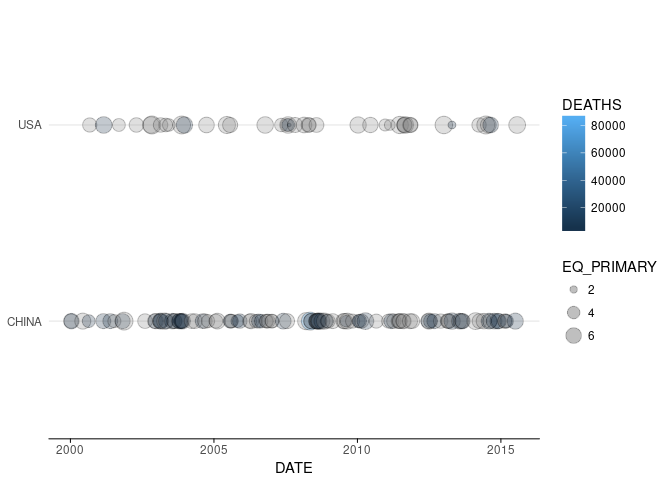
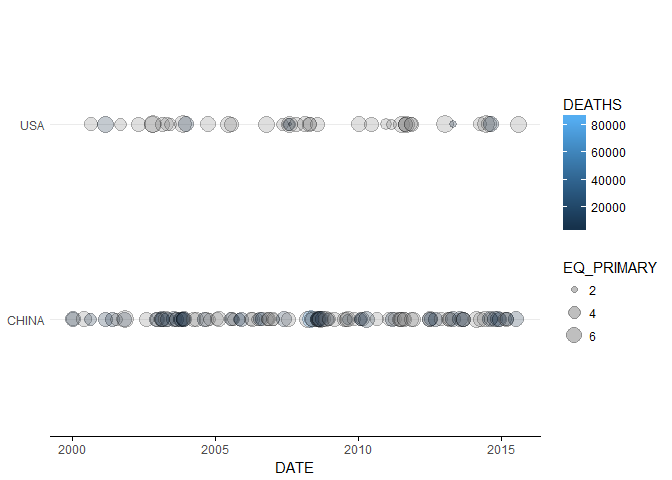
Adding earthquake data.frame as package data

diff --git a/README.md b/README.md
@@ -1,39 +1,22 @@
 
 <!-- README.md is generated from README.Rmd. Please edit that file -->
+earthquakes
+===========
 
-# earthquakes
+The earthquakes package is created for the Mastering Software Development in R capstone from coursera.
 
-The earthquakes package is created for the Mastering Software
-Development in R capstone from coursera.
+This capstone project will be centered around a dataset obtained from the U.S. National Oceanographic and Atmospheric Administration (NOAA) on significant earthquakes around the world. This dataset contains information about 5,933 earthquakes over an approximately 4,000 year time span.
 
-This capstone project will be centered around a dataset obtained from
-the U.S. National Oceanographic and Atmospheric Administration (NOAA) on
-significant earthquakes around the world. This dataset contains
-information about 5,933 earthquakes over an approximately 4,000 year
-time span.
+The overall goal of the capstone project is to integrate the skills you have developed over the courses in this Specialization and to build a software package that can be used to work with the NOAA Significant Earthquakes dataset. This dataset has a substantial amount of information embedded in it that may not be immediately accessible to people without knowledge of the intimate details of the dataset or of R. Your job is to provide the tools for processing and visualizing the data so that others may extract some use out of the information embedded within.
 
-The overall goal of the capstone project is to integrate the skills you
-have developed over the courses in this Specialization and to build a
-software package that can be used to work with the NOAA Significant
-Earthquakes dataset. This dataset has a substantial amount of
-information embedded in it that may not be immediately accessible to
-people without knowledge of the intimate details of the dataset or of R.
-Your job is to provide the tools for processing and visualizing the data
-so that others may extract some use out of the information embedded
-within.
-
-The ultimate goal of the capstone is to build an R package that will
-contain features and will satisfy a number of requirements that will be
-laid out in the subsequent Modules. You may want to begin organizing
-your package and insert various features as you go through the capstone
-project.
+The ultimate goal of the capstone is to build an R package that will contain features and will satisfy a number of requirements that will be laid out in the subsequent Modules. You may want to begin organizing your package and insert various features as you go through the capstone project.
 
 Dataset
 
-  - [NOAA Significant Earthquake
-    Database](https://www.ngdc.noaa.gov/nndc/struts/form?t=101650&s=1&d=1)
+-   [NOAA Significant Earthquake Database](https://www.ngdc.noaa.gov/nndc/struts/form?t=101650&s=1&d=1)
 
-## Installation
+Installation
+------------
 
 You can install earthquakes from github with:
 
@@ -42,12 +25,12 @@ You can install earthquakes from github with:
 devtools::install_github("raggaraluz/mastering_r_capstone")
 ```
 
-## Example
+Example
+-------
 
 ### Downloading data
 
-Data can be downloaded from NOAA Significant Earthquake Database as TSV
-and converted to a data frame:
+Data can be downloaded from NOAA Significant Earthquake Database as TSV and converted to a data frame:
 
 ``` r
 library(readr)
@@ -56,13 +39,18 @@ location <- 'https://www.ngdc.noaa.gov/nndc/struts/results?type_0=Exact&query_0=
 raw <- read_tsv(location)
 ```
 
-Then, the dataframe can be cleaned using the earthquakes package
-functions
+Alternatively, a sample is stored into the package itself
+
+``` r
+raw <- earthquakes::earthquake_data_raw
+```
+
+Then, the dataframe can be cleaned using the earthquakes package functions
 
 ``` r
 library(earthquakes)
 library(dplyr)
-clean <- eq_clean_data(raw) %>%
+clean <- eq_clean_data(earthquake_data_raw) %>%
   eq_location_clean()
 
 knitr::kable(clean %>%
@@ -70,25 +58,21 @@ knitr::kable(clean %>%
                tail)
 ```
 
-| DATE       | LATITUDE | LONGITUDE | LOCATION\_NAME | EQ\_PRIMARY |
-| :--------- | -------: | --------: | :------------- | ----------: |
-| 2018-01-11 |   33.764 |    45.749 | Kermanshah     |         5.5 |
-| 2018-01-14 | \-15.776 |  \-74.744 | Arequipa       |         7.1 |
-| 2018-01-23 |  \-7.196 |   105.918 | Java: Banten   |         6.0 |
-| 2018-01-23 |   56.046 | \-149.073 | Kodiak Island  |         7.9 |
-| 2018-01-31 |   36.543 |    70.816 | Baluchistan    |         6.1 |
-| 2018-02-06 |   24.174 |   121.653 | Hualien        |         6.4 |
+| DATE       |  LATITUDE|  LONGITUDE| LOCATION\_NAME |  EQ\_PRIMARY|
+|:-----------|---------:|----------:|:---------------|------------:|
+| 2018-01-11 |    33.764|     45.749| Kermanshah     |          5.5|
+| 2018-01-14 |   -15.776|    -74.744| Arequipa       |          7.1|
+| 2018-01-23 |    -7.196|    105.918| Java: Banten   |          6.0|
+| 2018-01-23 |    56.046|   -149.073| Kodiak Island  |          7.9|
+| 2018-01-31 |    36.543|     70.816| Baluchistan    |          6.1|
+| 2018-02-06 |    24.174|    121.653| Hualien        |          6.4|
 
-## Timeline geoms
+Timeline geoms
+--------------
 
-In this package are available two geoms that can be used to plot
-earthquake data.
+In this package are available two geoms that can be used to plot earthquake data.
 
-The first geom, `geom_timeline()` is used for plotting a time line of
-earthquakes ranging from xmin to xmax dates, with a point for each
-earthquake. Optional aesthetics include color, size and alpha. The x
-aesthetic is a date and an optional y aesthetic is a factor indicating
-some stratification for multiple lines.
+The first geom, `geom_timeline()` is used for plotting a time line of earthquakes ranging from xmin to xmax dates, with a point for each earthquake. Optional aesthetics include color, size and alpha. The x aesthetic is a date and an optional y aesthetic is a factor indicating some stratification for multiple lines.
 
 ``` r
 library(ggplot2)
@@ -106,19 +90,37 @@ clean %>%
                             axis.ticks.x = element_line())
 ```
 
-![](man/figures/README-geom_timeline-1.png)<!-- -->
+![](man/figures/README-geom_timeline-1.png)
 
-## Maps
+The second geom is called `geom_timeline_label()` and is used for adding annotations to the earthquake data. This geom adds a vertical line to each data point with a text annotation (e.g. the location of the earthquake) attached to each line. There should be an option to subset to n\_max number of earthquakes, where we take the n\_max largest (by magnitude) earthquakes. Aesthetics are `x`, which is the date of the earthquake and `label` which takes the column name from which annotations will be obtained.
 
-There is a function called eq\_map() that takes an argument data
-containing the filtered data frame with earthquakes to visualize. The
-function maps the epicenters (LATITUDE/LONGITUDE) and annotates each
-point with in pop up window containing annotation data stored in a
-column of the data frame. The user should be able to choose which column
-is used for the annotation in the pop-up with a function argument named
-annot\_col. Each earthquake should be shown with a circle, and the
-radius of the circle should be proportional to the earthquake’s
-magnitude (EQ\_PRIMARY). One example of this function is:
+``` r
+
+data <- clean %>%
+  filter(COUNTRY %in% c('USA', 'CHINA'))
+
+labels <- data %>%
+  top_earthquakes(10, ymd('2000-01-01'), ymd('2015-12-31'))
+ 
+
+  ggplot(data, aes(x = DATE, y = COUNTRY, fill = DEATHS)) +
+    geom_timeline(aes(size = EQ_PRIMARY), alpha = 0.25, xmin = ymd('2000-01-01'), xmax = ymd('2015-12-31')) +
+    geom_timeline_label(data = labels, mapping = aes(x = DATE, y = COUNTRY, label = LOCATION_NAME)) +
+    theme_minimal() + theme(panel.grid.minor.x = element_blank(),
+                            panel.grid.major.x = element_blank(),
+                            axis.line.y = element_blank(),
+                            axis.title.y = element_blank(),
+                            axis.line.x = element_line(),
+                            axis.ticks.x = element_line(),
+                            legend.position = 'bottom')
+```
+
+![](man/figures/README-unnamed-chunk-5-1.png)
+
+Maps
+----
+
+There is a function called eq\_map() that takes an argument data containing the filtered data frame with earthquakes to visualize. The function maps the epicenters (LATITUDE/LONGITUDE) and annotates each point with in pop up window containing annotation data stored in a column of the data frame. The user should be able to choose which column is used for the annotation in the pop-up with a function argument named annot\_col. Each earthquake should be shown with a circle, and the radius of the circle should be proportional to the earthquake's magnitude (EQ\_PRIMARY). One example of this function is:
 
 ``` r
 clean %>%  
@@ -128,19 +130,9 @@ clean %>%
 
 ![](man/figures/README-leaflet-date.png)
 
-In this case, the image is static, but it is a full interactive map in
-R.
+In this case, the image is static, but it is a full interactive map in R.
 
-Finally a function called eq\_create\_label() is available, so that it
-takes the dataset as an argument and creates an HTML label that can be
-used as the annotation text in the leaflet map. This function puts
-together a character string for each earthquake that will show the
-cleaned location (as cleaned by the eq\_location\_clean() function
-created in Module 1), the magnitude (EQ\_PRIMARY), and the total number
-of deaths (TOTAL\_DEATHS), with boldface labels for each (“Location”,
-“Total deaths”, and “Magnitude”). If an earthquake is missing values
-for any of these, both the label and the value should be skipped for
-that element of the tag. The resulting code is:
+Finally a function called eq\_create\_label() is available, so that it takes the dataset as an argument and creates an HTML label that can be used as the annotation text in the leaflet map. This function puts together a character string for each earthquake that will show the cleaned location (as cleaned by the eq\_location\_clean() function created in Module 1), the magnitude (EQ\_PRIMARY), and the total number of deaths (TOTAL\_DEATHS), with boldface labels for each ("Location", "Total deaths", and "Magnitude"). If an earthquake is missing values for any of these, both the label and the value should be skipped for that element of the tag. The resulting code is:
 
 ``` r
 clean %>% 
@@ -149,7 +141,6 @@ clean %>%
   eq_map(annot_col = "popup_text")
 ```
 
-![](man/figures/README-leaflet-popup-1.png)
-![](man/figures/README-leaflet-popup-2.png)
+![](man/figures/README-leaflet-popup-1.png) ![](man/figures/README-leaflet-popup-2.png)
 
 Again, the image is static, but it is a full interactive map in R.
